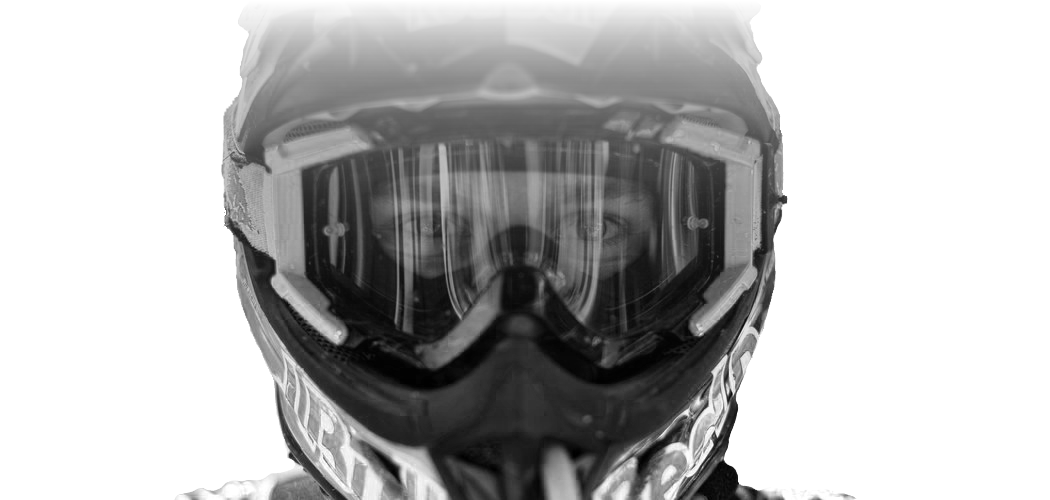
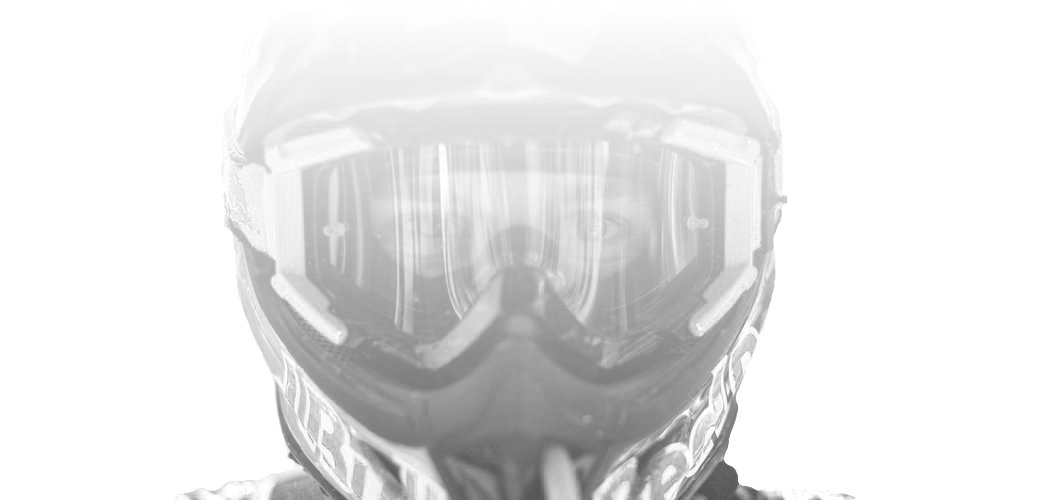
Update image.

diff --git a/src/layouts/gatstrap.scss b/src/layouts/gatstrap.scss
@@ -185,12 +185,12 @@ img {
 
 /* HEADER */
 #home {
-  background: linear-gradient(0deg, rgba(255, 255, 255, 0.3), rgba(255, 255, 255, 0.85)), url('./img/bg_home_helmet2.png');
+  background-image: url('./img/bg_home_helmet2.png');
   background-size: auto 80%;
   background-repeat: no-repeat;
   background-position: bottom;
-  padding-left: 0;
-  padding-right: 0;
+  // padding-left: 0;
+  // padding-right: 0;
 }
 
 #instagram {
